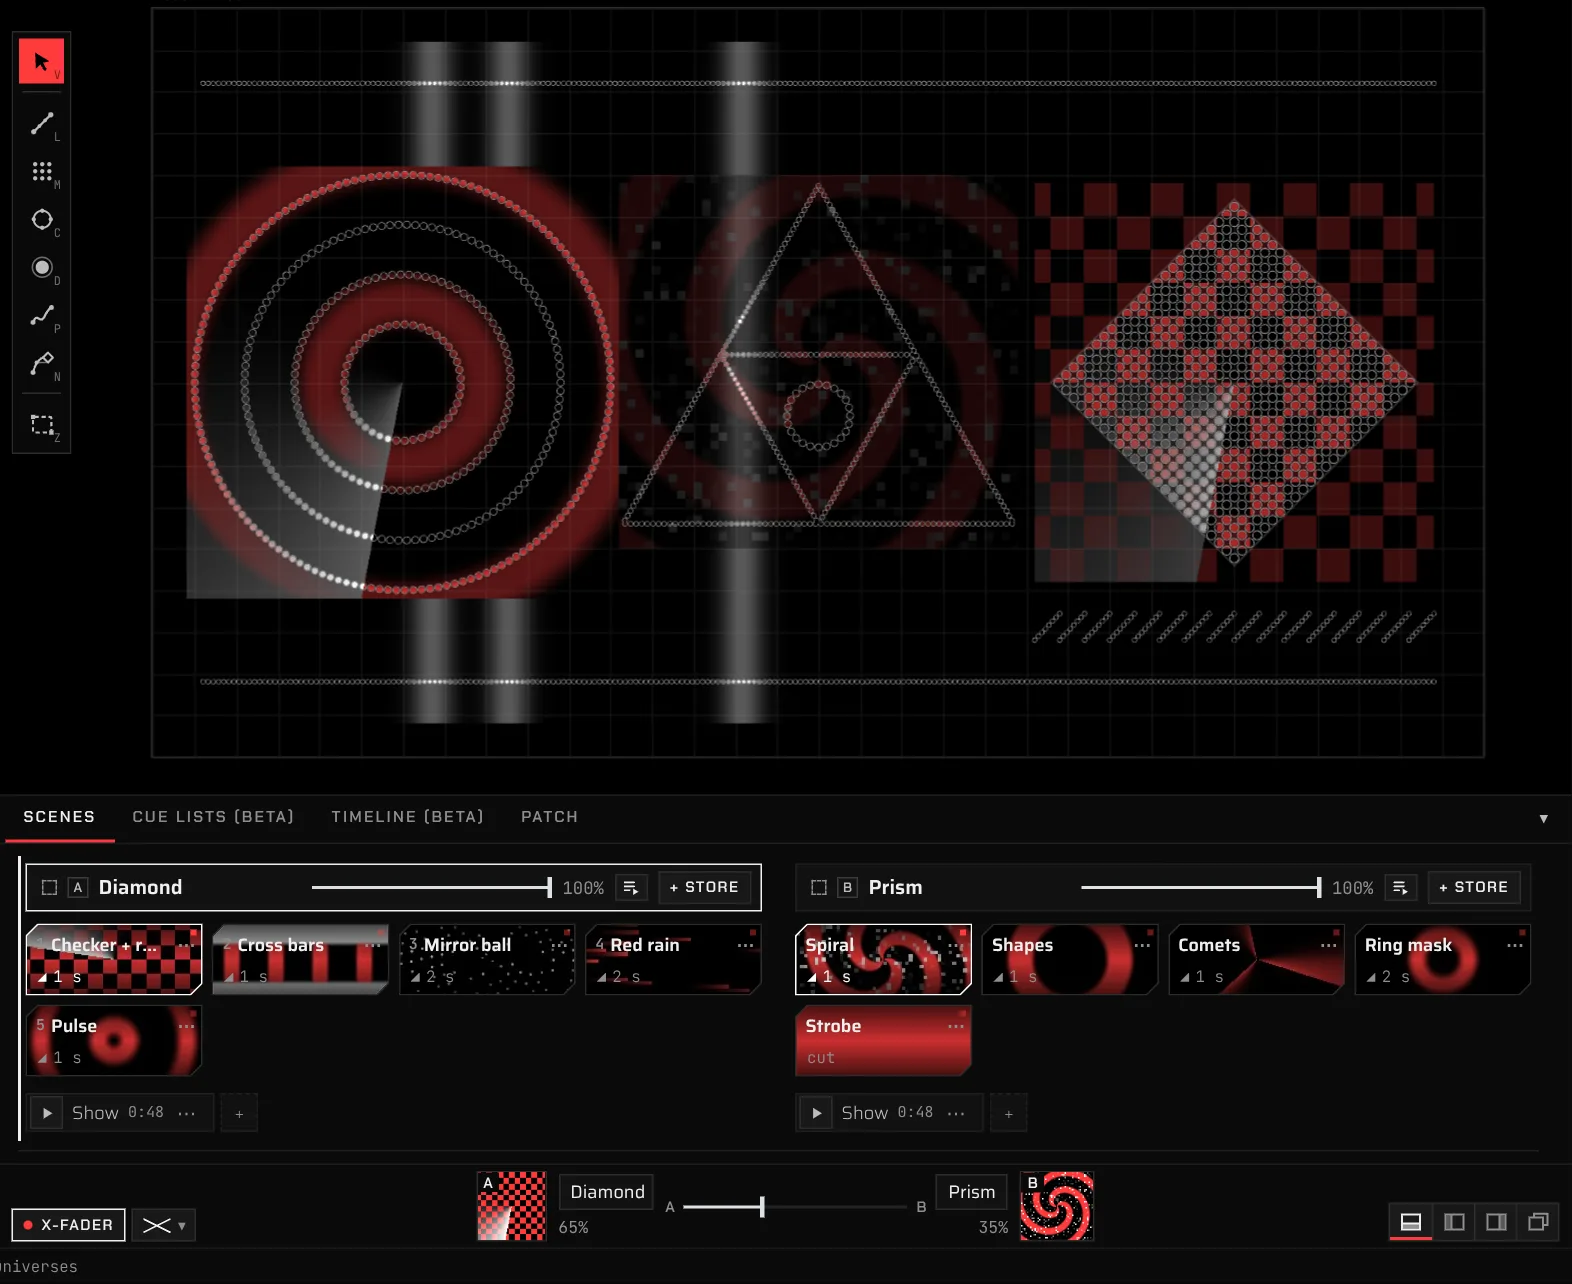
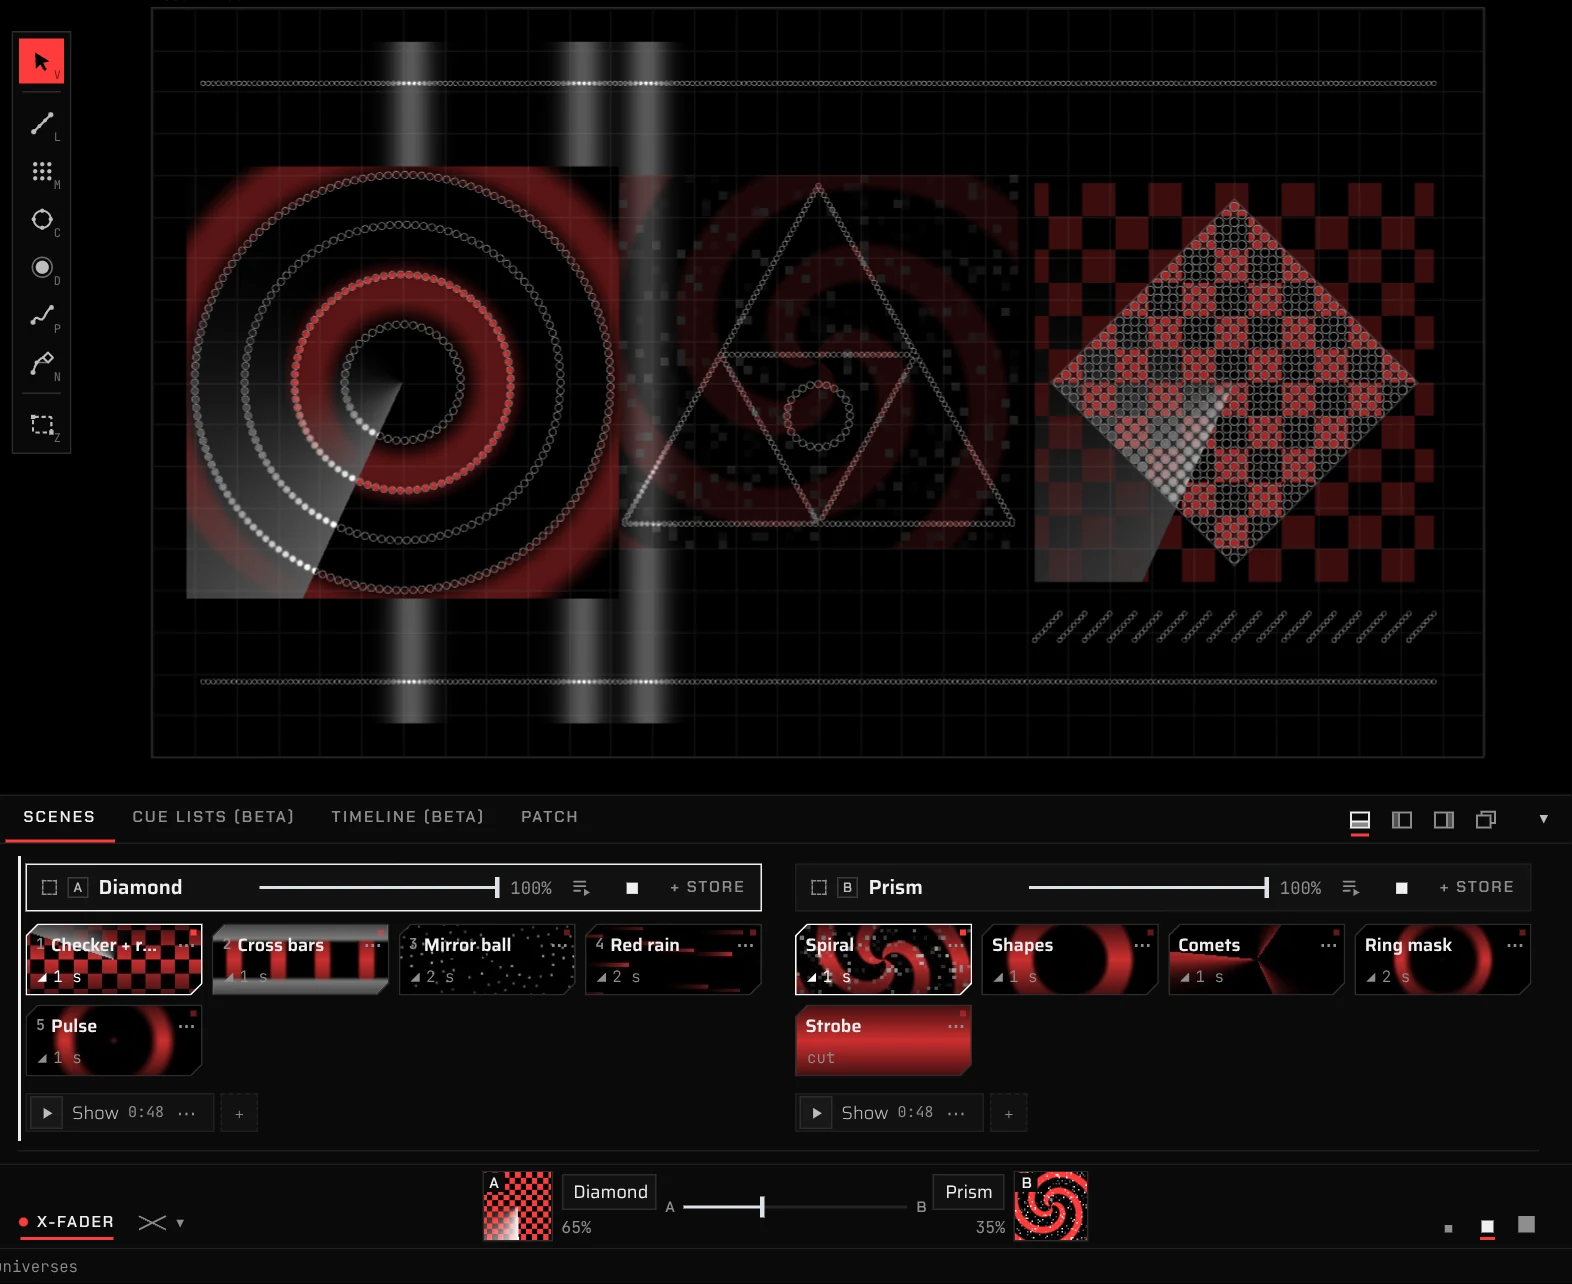
Site: 1.6.2, new screenshots (the boxless Scenes panel, timeline with audio tracks, markers and keyframes, cue lists in their own window)
Claude-Session: https://claude.ai/code/session_01TnTf954bCnfcgD4L8cjhPo

diff --git a/docs/index.html b/docs/index.html
@@ -316,7 +316,7 @@
         <a class="np-btn primary" href="#np-download">Download free <span class="np-arrow">↓</span></a>
         <a class="np-btn" data-np-href="" href="https://github.com/nouled-studio/nouPix">Source on GitHub <span class="np-arrow">↗</span></a>
       </div>
-      <p class="np-meta"><span data-np="version">v1.6.0</span> · macOS 12+ · Windows 10+ · Linux and Raspberry Pi from source · <span class="np-oss">AGPL-3.0</span></p>
+      <p class="np-meta"><span data-np="version">v1.6.2</span> · macOS 12+ · Windows 10+ · Linux and Raspberry Pi from source · <span class="np-oss">AGPL-3.0</span></p>
     </div>
     <div class="np-wrap">
       <div class="np-zone np-shotwrap">
@@ -527,16 +527,17 @@
           <ul class="np-list">
             <li><b>Cue lists</b>: GO (or Space) plays the cue on standby. A cue plays scenes in the zones you choose, takes their levels somewhere and sets effects' controls, all over its fade</li>
             <li>A cue can go on to the next, or to another, by itself after a wait; Back and Stop; as many cue lists as you like</li>
-            <li><b>Timeline</b>: scenes as clips on a track per zone, in time with an audio file and its waveform</li>
-            <li>Clips fade in and out, crossfade into each other and stack on lanes; loop it all or a region; the ruler in seconds or bars</li>
-            <li>The Scenes, Cue lists and Timeline panels can each move to the left or right side, as one more tab</li>
+            <li><b>Timeline</b>: scenes as clips on a track per zone, in time with your music on as many audio tracks as you need, each trimmed, moved and with its own volume</li>
+            <li>Keyframes on any clip: its level and any control of its effects, colours included, moving straight, eased or held</li>
+            <li>The tempo and bar 1 found in the audio by themselves; markers for the intro, the drop, the break; clips fade, crossfade and stack on lanes</li>
+            <li>Scenes, Cue lists and Timeline each go at the bottom, on either side, or in a window of their own for another screen</li>
           </ul>
         </div>
         <figure>
-          <div class="np-media np-cut"><img src="img/feature-timeline.webp" width="1572" height="760" loading="lazy" alt="The Timeline: an audio file's waveform on top, and a track per zone (Diamond, Prism on two lanes, Rings, Lines) with scene clips showing their snapshots, fading and crossfading, the ruler in bars and the playhead in red"></div>
+          <div class="np-media np-cut"><img src="img/feature-timeline.webp" width="1572" height="936" loading="lazy" alt="The Timeline: two audio tracks with their waveforms, a riser fading in on its volume line, markers Intro, Build up, Drop and Outro; a track per zone (Diamond, Prism on two lanes, Rings, Lines) with scene clips showing their snapshots, one unfolded with keyframes on its level and two of its controls; the ruler in bars and the playhead in red"></div>
         </figure>
         <figure>
-          <div class="np-media np-cut"><img src="img/feature-cues.webp" width="1572" height="570" loading="lazy" alt="A cue list, Opening night: GO, cue 3 on standby outlined in red, cue 2 playing in white with its progress line and going on by itself, and each cue's actions, fade and what comes after"></div>
+          <div class="np-media np-cut"><img src="img/feature-cues.webp" width="1860" height="520" loading="lazy" alt="The Cue lists in a window of their own, Opening night: GO, cue 3 on standby outlined in red, cue 2 playing in white with its progress line and going on by itself, and each cue's actions, fade and what comes after"></div>
         </figure>
       </article>
 
@@ -679,7 +680,7 @@
         </a>
       </div>
       <div class="np-dlmeta">
-        <span>Latest: <span data-np="version">v1.6.0</span><span data-np="date"></span></span>
+        <span>Latest: <span data-np="version">v1.6.2</span><span data-np="date"></span></span>
         <a data-np-href="/releases/latest" href="https://github.com/nouled-studio/nouPix/releases/latest">Release notes</a>
         <a data-np-href="/releases" href="https://github.com/nouled-studio/nouPix/releases">All versions</a>
         <a data-np-href="" href="https://github.com/nouled-studio/nouPix">Source code</a>
@@ -701,7 +702,7 @@
           <pre><code><span class="p">$ </span>git clone <span data-np-clone>https://github.com/nouled-studio/nouPix.git</span>
 <span class="p">$ </span>cd nouPix
 <span class="p">$ </span>python3 noupix.py
-<span class="c">  nouPix 1.6.0
+<span class="c">  nouPix 1.6.2
   Interface   http://127.0.0.1:8080/</span></code></pre>
         </div>
       </div>
@@ -798,7 +799,7 @@
         <a href="#np-licence">Licence</a>
         <a href="https://www.nouled.com">nouled.com</a>
       </nav>
-      <p class="np-copy">© 2026 NOULED.STUDIO · nouPix <span data-np="version">v1.6.0</span> · free software under the GNU AGPL-3.0</p>
+      <p class="np-copy">© 2026 NOULED.STUDIO · nouPix <span data-np="version">v1.6.2</span> · free software under the GNU AGPL-3.0</p>
     </div>
   </footer>
 </div>
